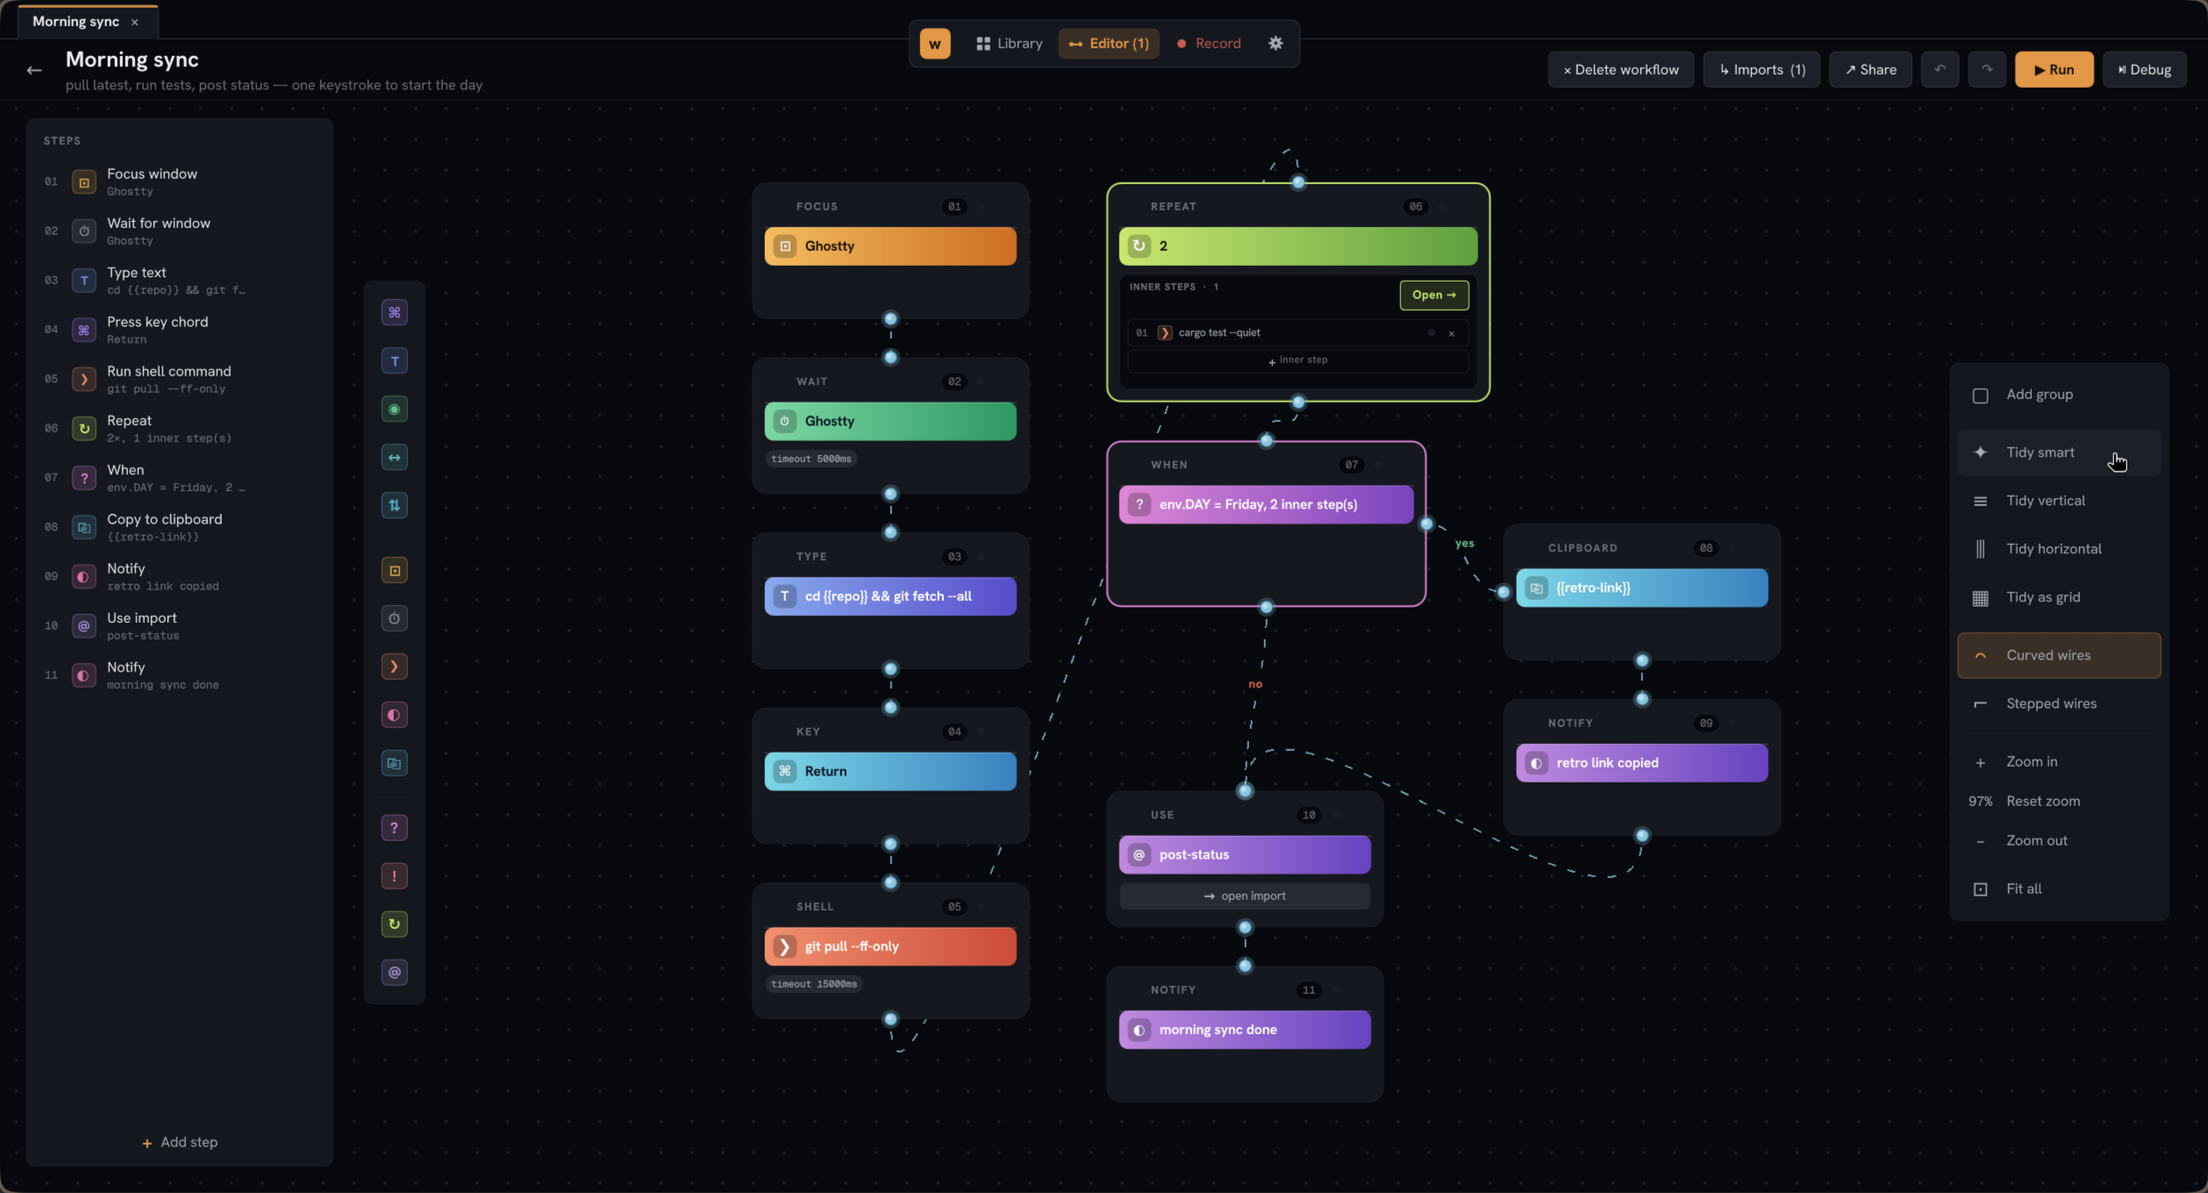
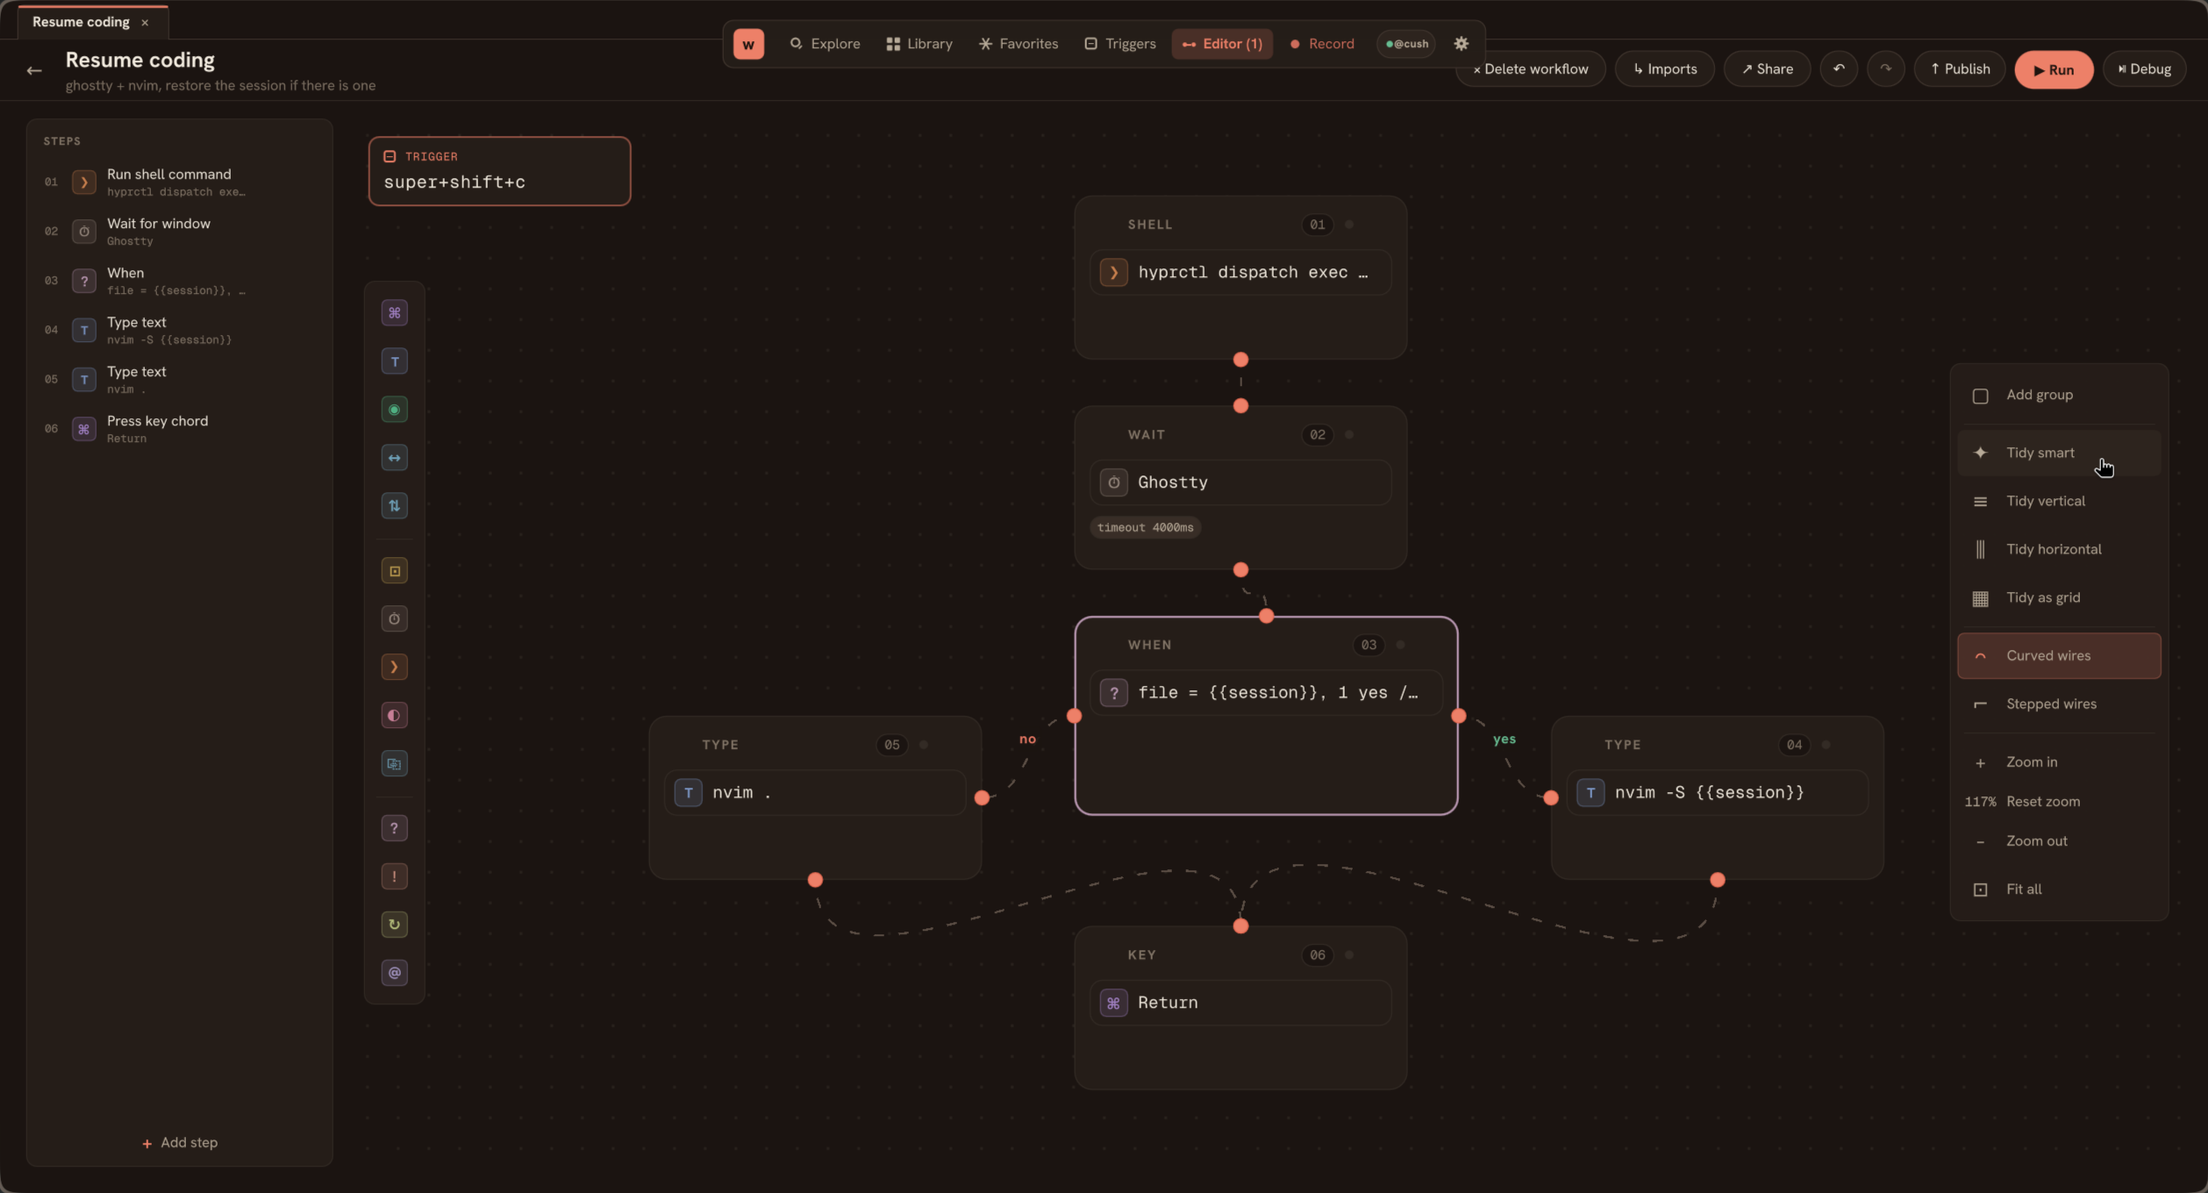
release: 1.0.0
Bumps the cargo version to 1.0.0 and refreshes the README around the
v1.0 surfaces. The catalog, sign-in, publish-from-card, Triggers tab,
daemon auto-enable, and brand-domain rename to wflows.io all landed
across PRs 14 through 26; the README now leads with a fresh library
shot, replaces the old morning-sync editor capture with the Resume
coding when/else fan-out, and grows new sections for Explore,
Triggers, and Record. The KDL example block is the actual ricer-y
nvim-session demo workflow that ships in the Daily folder, not the
old long-form Slack standup.

Drops the five stale wflow-*.png assets that screenshotted the
deleted morning-sync workflow; the new captures live alongside the
design-docs set in docs/design/screenshots/claude-design/.

Updates the Status section with the v1.0.0 entry pointing at the
release notes.

diff --git a/README.md b/README.md
@@ -1,41 +1,97 @@
 # wflow
 
-**Shortcuts for Linux. GUI editor backed by plain-text workflow files.**
+**Shortcuts for Linux. GUI editor backed by plain-text workflow files,
+a global-hotkey daemon, and a community catalog at
+[wflows.io](https://wflows.io).**
 
-![wflow library — eight example workflows in a grid, each tagged with its action types](assets/screenshots/wflow-library.png)
+![wflow library — five workflow cards plus a Daily folder, each tagged with its action types](docs/design/screenshots/claude-design/library-grid.dark.png)
 
 A Qt Quick app for building, editing, recording, and replaying desktop
 workflows on Wayland. Pick a template or start blank, edit the steps,
 hit Run, watch each step report back. Or skip the editor entirely and
 hand-write the file in `$EDITOR`. Both paths produce the same output.
 
-Built on [wdotool-core](https://github.com/cushycush/wdotool) for
-input injection — linked in process, no `wdotool` binary required at
-runtime.
+Built on [wdotool-core](https://github.com/cushycush/wdotool) for input
+injection — linked in process, no `wdotool` binary required at runtime.
 
 ## The editor
 
-Free-positioning canvas. Drag chips from the palette dock on the left to
-drop a step anywhere; wires auto-route between consecutive steps; conditionals
-render as branch shapes with explicit yes/no outputs; repeat is a container
-with an inline strip of inner rows. Smart Tidy on the right-side tool dock
-picks the layout that keeps cards readable at the closest-to-1.0 zoom.
+Free-positioning canvas. Drag chips from the palette dock on the left
+to drop a step anywhere; wires auto-route between consecutive steps;
+conditionals render as branch shapes with explicit yes/no outputs;
+repeat is a container with an inline strip of inner rows. Smart Tidy
+on the right-side tool dock picks the layout that keeps cards readable
+at the closest-to-1.0 zoom.
 
-![Morning sync workflow open in the editor — eleven steps, a yes/no conditional, a repeat container with an inner step, and three coloured group rectangles annotating the update / verify / share sections](assets/screenshots/wflow-editor.png)
+![Resume coding workflow open in the editor — four steps with a when/else block fanning into two branches](docs/design/screenshots/claude-design/editor-canvas.dark.png)
 
-Multi-select with shift- or ctrl-click; lasso a region with shift- or
-ctrl-drag; alt-drag to draw a coloured group rectangle behind cards as a
-visual annotation. Selection highlights live as the marquee crosses cards.
-
-![The same workflow with a marquee dragged around four cards on the right side, all highlighted as the rect moves](assets/screenshots/wflow-multiselect.png)
+The pinned trigger card at the top-left of the canvas surfaces the
+chord binding for the workflow, so you don't have to read the KDL to
+know what fires it. Multi-select with shift- or ctrl-click; lasso a
+region with shift- or ctrl-drag; alt-drag to draw a coloured group
+rectangle behind cards as a visual annotation.
 
 Step-by-step debugger. ⏯ Debug pauses the engine between every action;
 Step / Continue / Stop are the controls. The active card pulses; each
 step's status dot settles to green / red / grey on outcome. Repeat
-inner steps each get their own dot and pulse on every iteration so loops
-are easy to read.
+inner steps each get their own dot and pulse on every iteration so
+loops are easy to read.
 
-![The editor in debug mode — the run controls have flipped to Step / Continue / Stop, the conditional card is highlighted as the active step, and the status dots show the steps that have already finished](assets/screenshots/wflow-debug.png)
+## Explore
+
+A community catalog of workflows lives at
+[wflows.io](https://wflows.io). Sign in from Settings → Account, browse
+from the Explore tab, click any card to import it.
+
+![Explore tab — featured row plus browse grid, each card tagged with action types and install / star counts](docs/design/screenshots/claude-design/explore-grid.dark.png)
+
+The detail drawer parses the inline KDL through the same decoder the
+runner uses, so the step preview is exactly what the engine would
+execute. Install and star counts come from the live API. Importing
+shows a confirm dialog with title, author, description, and step
+count before anything writes to disk — a drive-by page that opens
+`wflow://import?source=...` in your browser can't silently install
+something you didn't intend to keep.
+
+When you're signed in, every card in your local Library grows a small
+"↑ Publish" pill in the top-right corner. Click it, fill in the
+description, tags, and visibility, hit publish, and your workflow
+posts to wflows.io. The KDL on disk is the source of truth — no
+copy-paste, no reformatting.
+
+## Triggers
+
+`wflow daemon` is a long-lived background process that binds every
+chord declared in your library and dispatches the right workflow when
+one fires. It picks the GlobalShortcuts portal on Plasma 6 and GNOME
+46+, and falls back to compositor IPC on Hyprland and Sway.
+
+![Triggers tab — list of bound workflows with their chords](docs/design/screenshots/claude-design/triggers-tab.dark.png)
+
+Author chords inside each workflow's KDL (`trigger { chord
+"super+shift+c" }`) or use the Triggers tab in the GUI. Either way the
+daemon's file watcher picks up changes in real time on Hyprland and
+Sway; portal-mode users restart the daemon to apply trigger changes
+(the GlobalShortcuts portal binds shortcuts once per session by spec).
+
+The first time you launch the GUI it offers to enable the systemd user
+unit so the daemon starts on every login.
+
+## Record
+
+Walk through the actions you want to replay, stop, the captured stream
+becomes a new workflow.
+
+![Record tab — idle state, big amber button waiting](docs/design/screenshots/claude-design/record-idle.dark.png)
+
+Record uses `org.freedesktop.portal.RemoteDesktop` on Plasma 6 and
+GNOME 46+ (explicit consent dialog, no extra permissions). On
+Hyprland, Sway, and other wlroots compositors that don't ship the
+portal interface yet, Record falls back to reading
+`/dev/input/event*` directly via `evdev`. That requires being in the
+`input` group: `sudo usermod -aG input $USER` then log out and back
+in. If neither path is available, Record shows a clear setup error
+instead of silently capturing nothing.
 
 ## Install
 
@@ -47,27 +103,25 @@ paru -S wflow              # builds from source, ~5min on a fast machine
 paru -S wflow-git          # tracks main, builds from source
 ```
 
-`wflow-bin` is the same binary the GitHub release ships. Install
-it if you want to skip the cargo build; install `wflow` if you
-prefer a from-source build with your local rustc + LTO.
+`wflow-bin` is the same binary the GitHub release ships. Install it if
+you want to skip the cargo build; install `wflow` if you prefer a
+from-source build with your local rustc + LTO.
 
 PKGBUILDs in [`packaging/aur/`](packaging/aur/) for local builds.
 
 ### From source
 
-Requires Rust 1.77+ and Qt 6 development headers (`qt6-base`,
-`qt6-declarative` on Arch; `qt6-base-dev`, `qt6-declarative-dev` on
-Debian/Ubuntu).
+Requires Rust 1.77+ and Qt 6.11+ (`qt6-base`, `qt6-declarative`,
+`qt6-quickcontrols2` on Arch; equivalents on Debian/Ubuntu).
 
 ```sh
 cargo install --path . --locked
 ```
 
-For desktop notifications and clipboard actions, install
-`libnotify` (for `notify-send`) and `wl-clipboard` (for `wl-copy`)
-through your distro. Input/window automation goes through
-`wdotool-core` linked into wflow itself — no separate binary to
-install.
+For desktop notifications and clipboard actions, install `libnotify`
+(for `notify-send`) and `wl-clipboard` (for `wl-copy`) through your
+distro. Input/window automation goes through `wdotool-core` linked
+into wflow itself — no separate binary to install.
 
 ### Prebuilt tarball
 
@@ -83,9 +137,6 @@ submission lands once the last host-machine verification item closes.
 For now: build locally with `./packaging/flatpak/build-local.sh`.
 
 ### Auto-start on login
-
-If you're using global-hotkey triggers, you'll want the daemon running
-every time you sign in. Use the bundled systemd user unit:
 
 ```sh
 # AUR / Flatpak / distro package: the unit is already at
@@ -106,47 +157,7 @@ daemon starts with KDE / GNOME / Hyprland / Sway and stops on logout.
 If you installed via `cargo install --path .` and your user systemd
 hasn't been told about `~/.cargo/bin`, edit `ExecStart=wflow daemon`
 in the unit file to an absolute path like
-`ExecStart=%h/.cargo/bin/wflow daemon`. Systemd's user environment
-doesn't always inherit your shell's PATH.
-
-## Building a workflow
-
-Launch wflow. The first time, you get a welcome card with two paths:
-
-- **`+ New workflow`** opens a dialog with three tabs:
-  - **Blank** drops you into the editor with no steps and a tooltip
-    on `+ Add step` showing what to do first.
-  - **From template** lists eight hand-authored examples covering
-    shell, key chords, window focus, conditionals, retries, fragment
-    imports, and the full Record-mode output shape. Pick one, it
-    copies into your library, and the editor opens on the copy.
-  - **Record** opens the recorder. Walk through the actions you want
-    to replay, stop, the captured stream becomes a new workflow.
-- **`● Record`** shortcuts straight to the recorder if you already
-  know that's what you want.
-
-Record uses `org.freedesktop.portal.RemoteDesktop` on Plasma 6 and
-GNOME 46+ (explicit consent dialog, no extra permissions). On
-Hyprland, Sway, and other wlroots compositors that don't ship the
-portal interface yet, Record falls back to reading
-`/dev/input/event*` directly via `evdev`. That requires being in
-the `input` group, which you can do with
-`sudo usermod -aG input $USER` (then log out and back in). If
-neither path is available, Record shows a clear setup error
-instead of silently capturing nothing.
-
-The editor is split: step list on the left, inspector on the right.
-The inspector shows the value field plus per-action options (skip,
-on-error, retries / backoff / timeout for shell, clear-modifiers for
-key, delay-per-character for type). Saving is automatic, debounced
-~600ms after your last keystroke. The save indicator at the top tells
-you where it is in the cycle.
-
-Hit **Run** to execute. Each step reports an outcome (`✓ ok`, `· skipped`,
-`✗ error`) inline in the step list as the engine works through them.
-Use **`Run --dry-run`** equivalents from the CLI if you want a no-op
-preview, or **`wflow run --explain`** to see the literal subprocess
-commands each step would invoke.
+`ExecStart=%h/.cargo/bin/wflow daemon`.
 
 ## Workflows as plain text
 
@@ -155,35 +166,39 @@ workflow. Diff it in git, hand-edit it in `$EDITOR`, share it as a
 single file. No proprietary container, no binary blob.
 
 ```kdl
-workflow "Morning standup" {
-    subtitle "open slack, focus the channel, paste the daily message"
-
+workflow "Resume coding" {
+    subtitle "ghostty + nvim, restore the session if there is one"
     vars {
-        channel "#standup-platform"
+        project "~/projects/wflow"
+        session "~/.local/share/nvim/sessions/wflow.vim"
     }
-
-    shell "hyprctl dispatch exec 'slack'"
-    wait-window "Slack" timeout="20s"
-    focus "Slack"
-    key "ctrl+k" clear-modifiers=#true
-    type "{{channel}}" delay-ms=15
-    key "Return"
-    shell "date +%H:%M" as="now"
-    notify "standup ready" body="checked in at {{now}}"
+    trigger {
+        chord super+shift+c
+    }
+    shell "hyprctl dispatch exec 'ghostty --working-directory={{project}}'"
+    wait-window Ghostty timeout-ms=4000
+    when file="{{session}}" {
+        type "nvim -S {{session}}"
+        else {
+            type "nvim ."
+        }
+    }
+    key Return
 }
 ```
 
-Same workflow as the screenshot above. The GUI is a view onto this
-file. Edit either side, the other catches up.
+Same workflow as the editor screenshot above. The GUI is a view onto
+this file. Edit either side, the other catches up.
 
-The full vocabulary (every action, every property, how each one runs)
-is in [`docs/KDL.md`](docs/KDL.md). Variables, conditionals (`when` /
-`unless`), loops (`repeat`), shared fragments (`include` / `imports`),
-shell retries with backoff, window-wait predicates: all there.
+The full vocabulary lives in the [docs](https://wflows.io/docs).
+Variables, conditionals (`when` / `unless` with `else`), loops
+(`repeat`), shared fragments (`include` / `imports`), shell retries
+with backoff, window-wait predicates: all there.
 
-The filename is the id. `dev-setup.kdl` runs as `wflow run dev-setup`.
-Timestamps live in `~/.config/wflow/workflows.toml`, not the workflow
-file, so a `git diff` shows what you actually changed.
+The filename is the id. `resume-coding.kdl` runs as `wflow run
+resume-coding`. Timestamps live in `~/.config/wflow/workflows.toml`,
+not the workflow file, so a `git diff` shows what you actually
+changed.
 
 ### Where workflows live
 
@@ -192,7 +207,8 @@ $XDG_CONFIG_HOME/wflow/workflows/
 ```
 
 Usually `~/.config/wflow/workflows/`. One `.kdl` file per workflow.
-Put the directory under git if you want version-controlled automation.
+Subdirectories show as folders in the GUI. Put the directory under git
+if you want version-controlled automation.
 
 ### Examples
 
@@ -215,15 +231,15 @@ The GUI is the front door. The CLI is for cron, keybinds, and
 pipelines. Same engine, no Qt.
 
 ```sh
-wflow run morning-standup              # by id from the library
+wflow run resume-coding                # by id from the library
 wflow run ./path/to/file.kdl --yes     # by path, skip the trust prompt
 wflow run --dry-run ...                # don't execute, just print
 wflow run --explain ...                # print the literal subprocess commands
 wflow list                             # show the library
-wflow show morning-standup             # pretty-print the steps
+wflow show resume-coding               # pretty-print the steps
 wflow validate examples/*.kdl          # parse, no execution (CI-friendly)
 wflow doctor                           # check required binaries on PATH
-wflow migrate                          # convert pre-v0.4 files in place
+wflow daemon                           # run the trigger daemon
 wflow new "title"                      # scaffold a new workflow
 wflow ids                              # one-per-line, for shell completion
 ```
@@ -237,41 +253,25 @@ full man page is `wflow man` (one page per subcommand if you pass
 
 ## Status
 
-- **v0.1.0** — CLI runner, first cut of the KDL format, GUI as a viewer.
-- **v0.2.0** — Full KDL language; GUI editor with value/option/title
-  editing, add/delete/reorder; real ashpd + libei Record backend; man
-  pages; AUR PKGBUILDs; dual MIT/Apache-2.0 license.
-- **v0.3.0** — First public release. Welcome card + New-workflow dialog
-  with templates; first-run trust prompt for unfamiliar workflow files
-  (CLI + GUI, see [`REVIEW.md`](REVIEW.md)); Flatpak manifest with
-  host-spawn redirect; GitHub Actions CI + draft-release-on-tag.
-- **v0.4.0** — Editor grows up. Free-positioning canvas, branch shapes
-  for conditionals, repeat container, multi-select + marquee, undo /
-  redo, group rectangles, step-by-step debugger, run-feedback dots,
-  fragment imports.
-- **v0.4.1** — Left-rail selection follows the canvas marquee in real
-  time as the rect moves.
-- **v0.5.0** — Brand-palette release. Two skins (Warm Paper / Cool
-  Slate) with full light + dark coverage, first-run picker, switch
-  any time from Settings.
-- **v0.6.0** — Conditionals get a real false branch. `when` and
-  `unless` accept an `else { ... }` block, the canvas draws the
-  no-side as a parallel column or row across every layout, the
-  inspector grew a FALSE BRANCH section. Plus wire-routing cleanup
-  and a first-load auto-fit fix.
+- **v0.1.0 – v0.4.1** — CLI runner; KDL language; GUI editor with
+  templates; recording; first-run trust prompt; AUR + Flatpak +
+  GitHub Actions release flow.
+- **v0.5.0** — Two brand skins (Warm Paper / Cool Slate), full light +
+  dark coverage, first-run picker, switcher in Settings.
+- **v0.6.0** — Conditionals get a real false branch. `when` / `unless`
+  accept an `else { ... }` block; canvas draws the no-side as a
+  parallel column or row across every layout.
 - **v0.7.0** — Trigger daemon. `wflow daemon` binds keyboard chords
   to workflows on KDE Plasma 6, GNOME 46+, Hyprland, and Sway.
-  GlobalShortcuts portal first, compositor IPC fallback. Hot-reload
-  on workflow library changes, single-instance pidfile lock,
-  bundled systemd user unit for autostart on login. Picks up
-  wdotool-core 0.5's wlroots roundtrip fix.
-- **next** — Hotstrings (text expansion), per-window conditional
-  hotkeys, Triggers tab in the GUI, Flathub submission. Plus the
-  wflows.io integration push toward v1.0 (Explore re-enabled,
-  deeplink import confirm dialog, detail drawer with live data).
+- **v1.0.0** — The catalog goes live. Explore is on, the desktop
+  signs in to wflows.io, one-click import via `wflow://`, publish
+  from the library card, Triggers tab in the GUI, daemon
+  auto-enable on first GUI run, brand-domain rename to wflows.io.
+  See [`docs/release-notes/v1.0.0.md`](docs/release-notes/v1.0.0.md).
 
-See `CLAUDE.md` for architecture notes and design decisions, and
-[`CHANGELOG.md`](CHANGELOG.md) for what shipped in each release.
+See [`CLAUDE.md`](CLAUDE.md) for architecture notes and design
+decisions, and [`CHANGELOG.md`](CHANGELOG.md) for what shipped in each
+release.
 
 ## License
 
